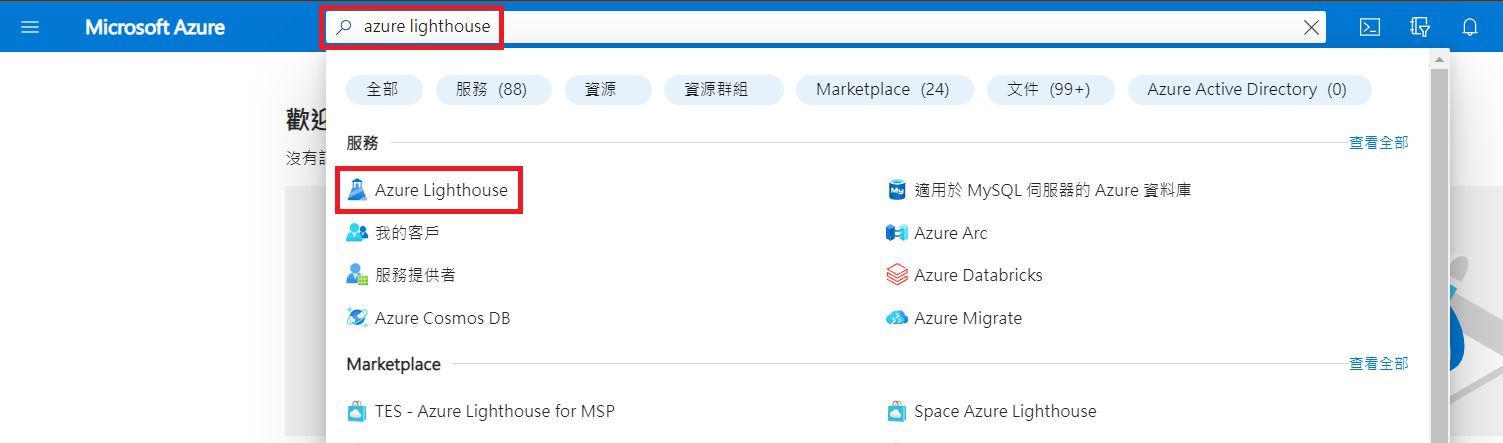
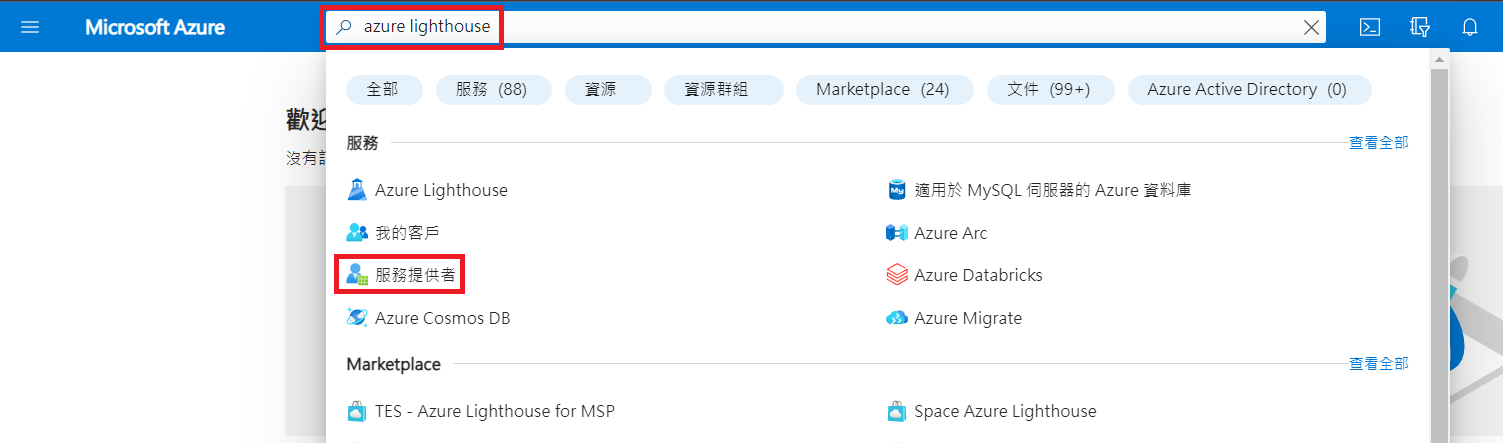
10. 去除多餘comment 11. 應直接選取服務提供者

Changed region(s): [[0.2142, 0.3521, 0.3673, 0.4989], [0.2142, 0.5576, 0.3061, 0.6749], [0.3061, 0.5869, 0.3367, 0.6456]]

diff --git a/FinOpsOnboard/index.html b/FinOpsOnboard/index.html
@@ -48,8 +48,7 @@
   <li>由於是以反斜槓換行故不可使用Powershell輸入</li>
   </ol>
 </blockquote>
-<pre><code class="hljs bash language-bash">   <span class="hljs-comment"># parameters只能使用local file。</span>
-   az deployment sub create --location WestUS \
+<pre><code class="hljs bash language-bash">   az deployment sub create --location WestUS \
                             --template-uri https://systex-t22r.github.io/FinOpsOnboard/FinOpsAssessment.json \
                             --parameters https://systex-t22r.github.io/FinOpsOnboard/FinOpsAssessment.parameters.json \
                             --verbose
@@ -62,7 +61,7 @@
 </code></pre>
 <h2 id="透過azure入口網站授權">透過Azure入口網站授權</h2>
 <ol>
-<li>選取Azure Lighthouse功能<br />
+<li>選取Azure Lighthouse的服務提供者功能<br />
 <img src="https://github.com/systex-t22r/systex-t22r.github.io/blob/main/FinOpsOnboard/img/lighthouse-onboard-by-portal/1.png?raw=true" alt="" /></li>
 <li>開啟上傳介面  <br />
 <img src="https://github.com/systex-t22r/systex-t22r.github.io/blob/main/FinOpsOnboard/img/lighthouse-onboard-by-portal/2.png?raw=true" alt="" /></li>

diff --git a/FinOpsOnboard/README.md b/FinOpsOnboard/README.md
@@ -37,7 +37,6 @@
    > 1. 須先登入Azure帳戶（az login）才能進行以下流程。
    > 2. 由於是以反斜槓換行故不可使用Powershell輸入
    ```bash
-   # parameters只能使用local file。
    az deployment sub create --location WestUS \
                             --template-uri https://systex-t22r.github.io/FinOpsOnboard/FinOpsAssessment.json \
                             --parameters https://systex-t22r.github.io/FinOpsOnboard/FinOpsAssessment.parameters.json \
@@ -50,7 +49,7 @@
    ```
 
 ## 透過Azure入口網站授權
-1. 選取Azure Lighthouse功能
+1. 選取Azure Lighthouse的服務提供者功能
    ![](https://github.com/systex-t22r/systex-t22r.github.io/blob/main/FinOpsOnboard/img/lighthouse-onboard-by-portal/1.png?raw=true)
 2. 開啟上傳介面  
    ![](https://github.com/systex-t22r/systex-t22r.github.io/blob/main/FinOpsOnboard/img/lighthouse-onboard-by-portal/2.png?raw=true)
